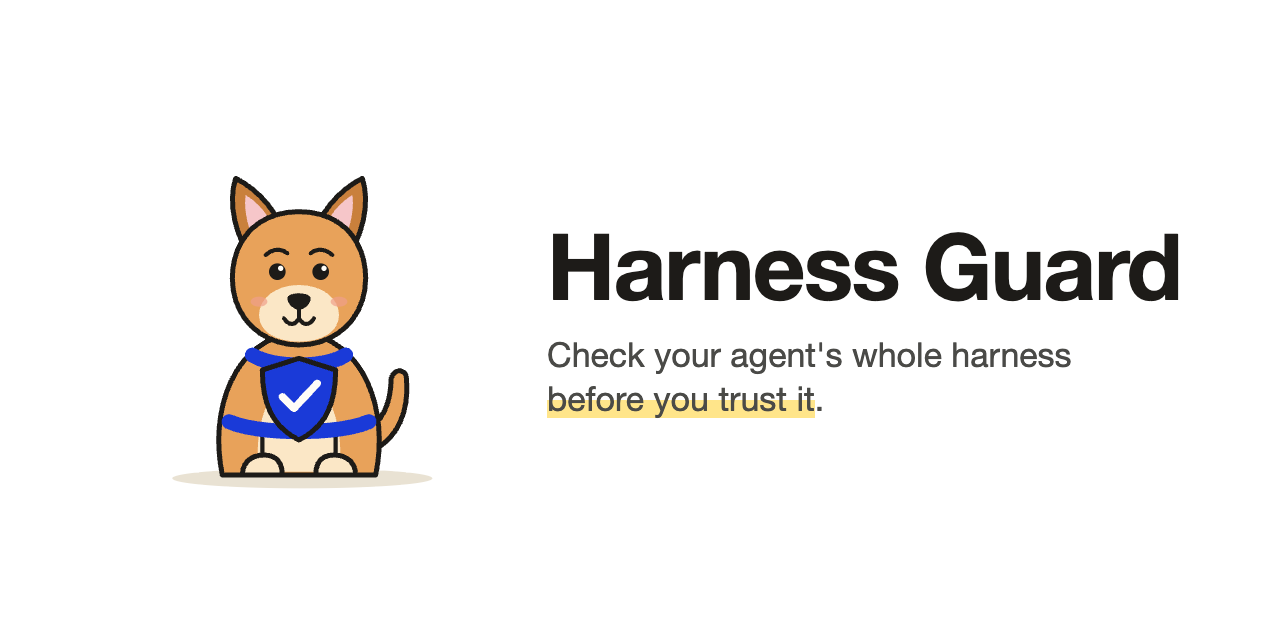
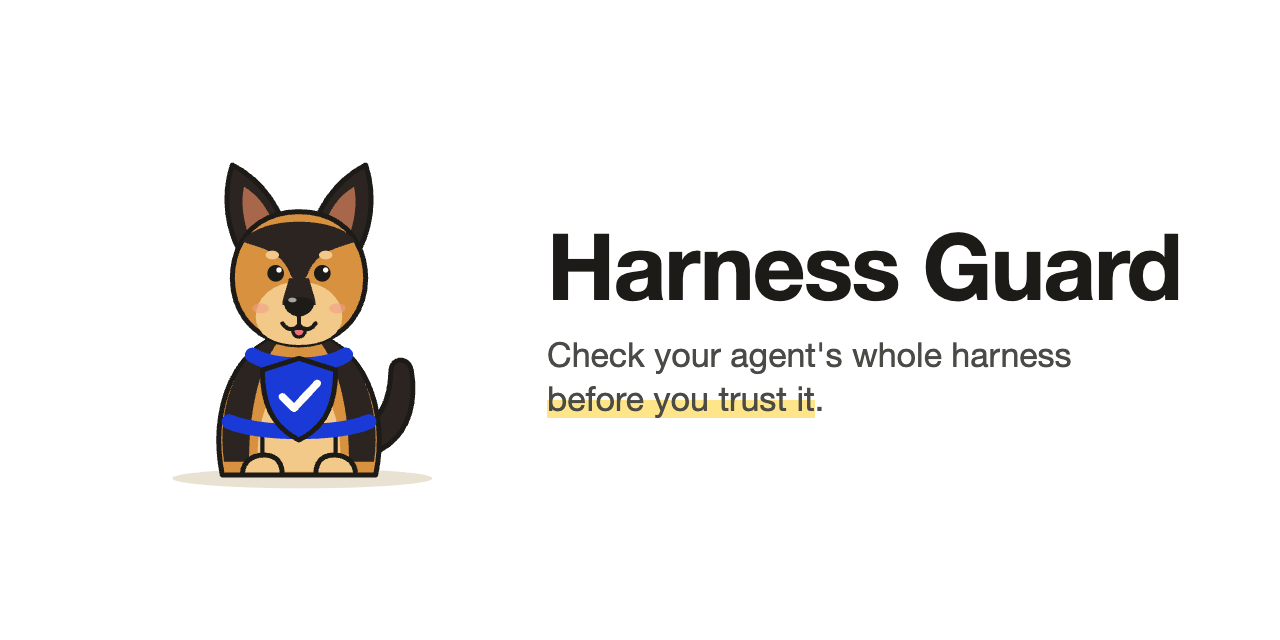
Mascot: a German shepherd instead of a generic dog (#2)
Tall dark ears, dark cap, mask and saddle, tan face. Social card re-rendered.

Changed region(s): [[0.1562, 0.25, 0.3438, 0.75]]

diff --git a/README.md b/README.md
@@ -1,4 +1,4 @@
-<p align="center"><img src="docs/guard.svg" width="200" alt="Harness Guard's dog, in a harness with a shield on its chest, keeping watch"></p>
+<p align="center"><img src="docs/guard.svg" width="200" alt="Harness Guard's German shepherd, in a harness with a shield on its chest, keeping watch"></p>
 
 <h1 align="center">Harness Guard</h1>
 
